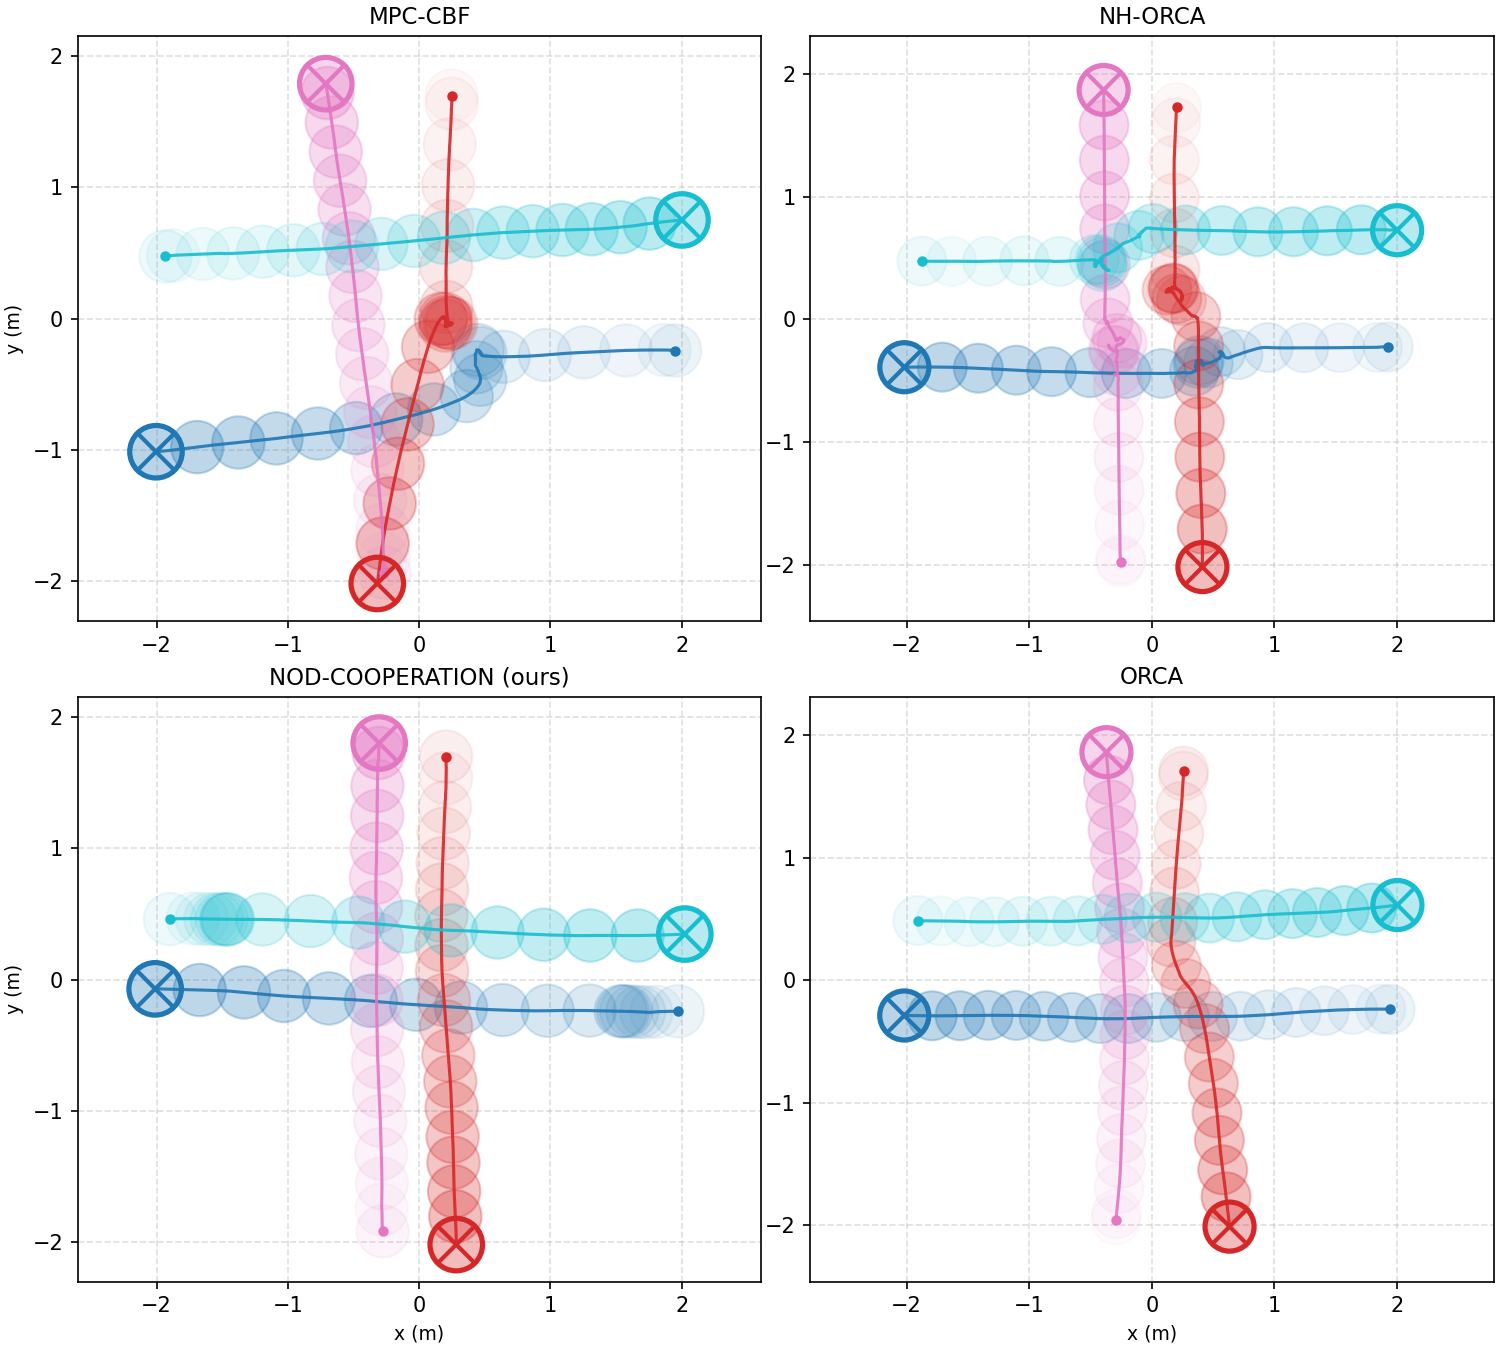
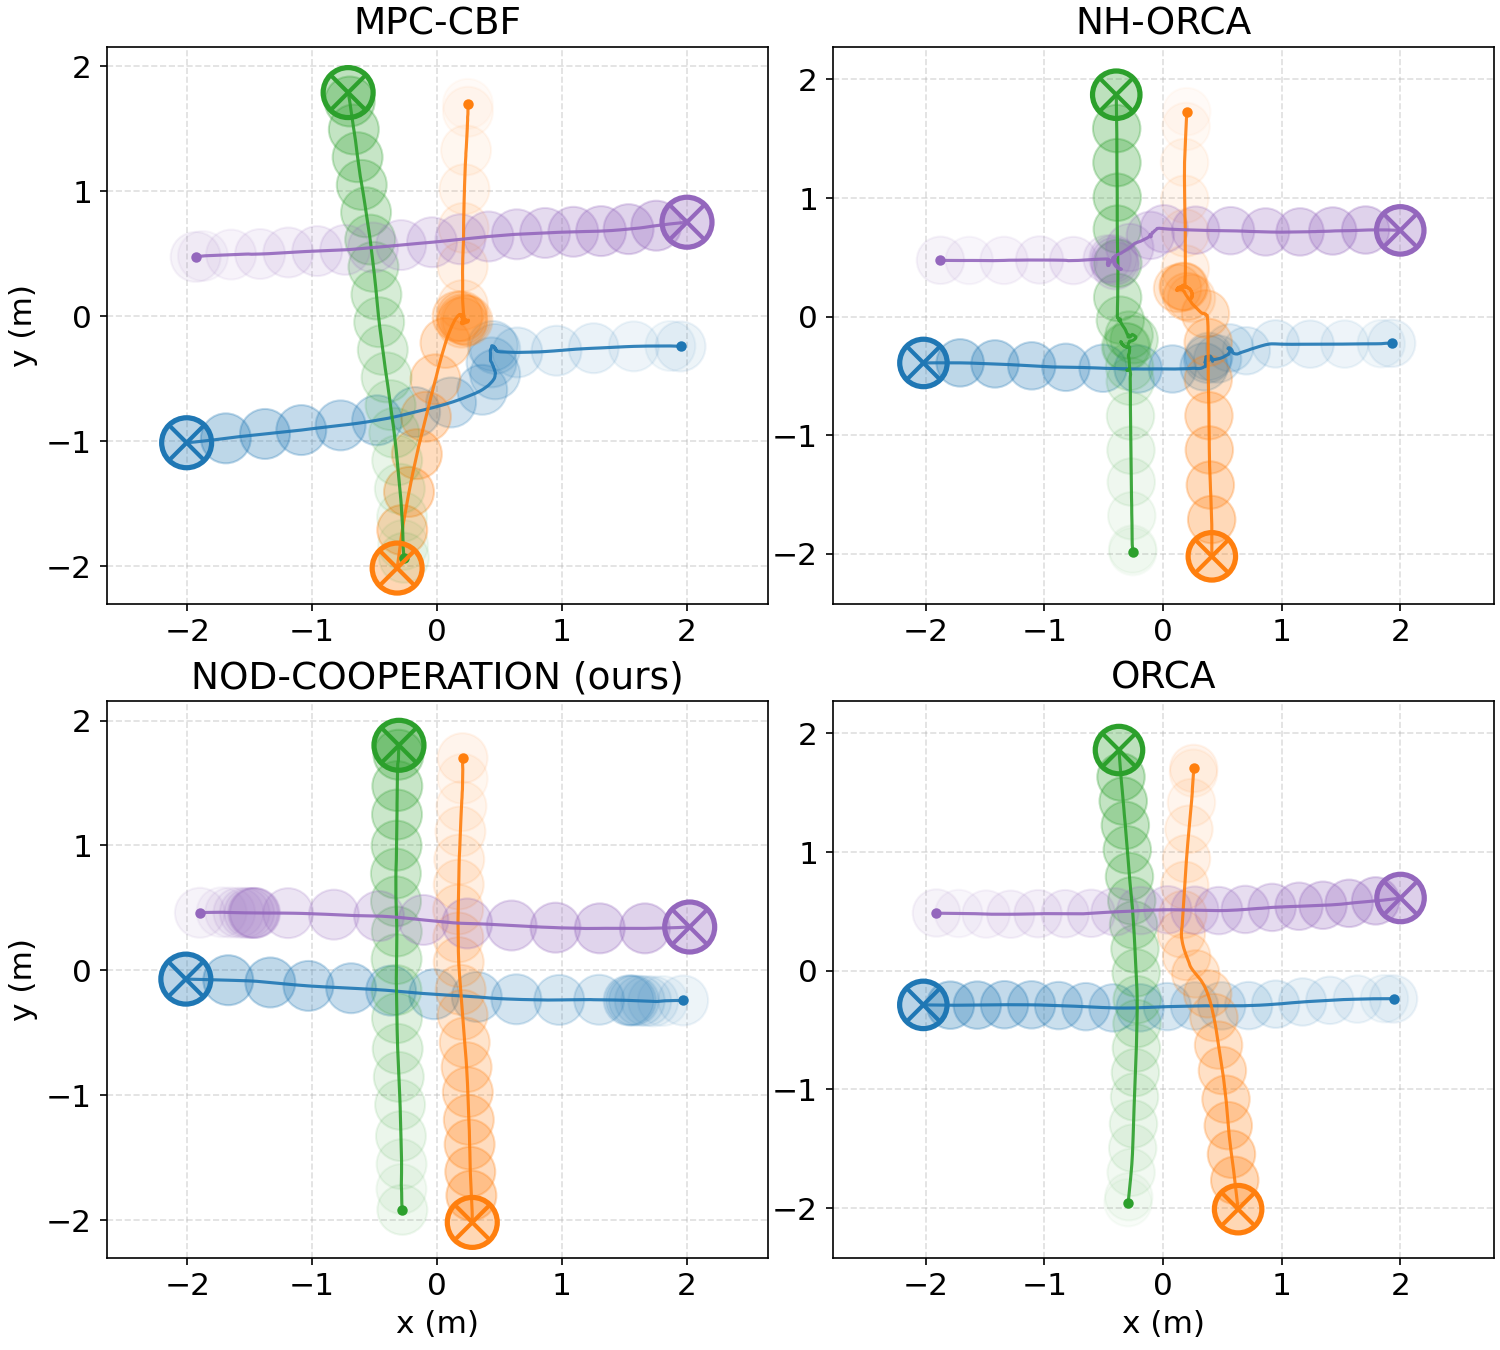
combined trajectories plot and generation

diff --git a/experiments/scripts/plot_combined_trajectories.py b/experiments/scripts/plot_combined_trajectories.py
@@ -47,7 +47,12 @@ def load_trial(trial_dir):
 
 
 def draw_trajectories(ax, robot_data, title):
-    colors = cm.tab10(np.linspace(0, 1, len(robot_data)))
+    colors = [
+        "#1f77b4",  # blue
+        "#ff7f0e",  # orange
+        "#2ca02c",  # green
+        "#9467bd",  # purple
+    ][:len(robot_data)]
 
     x_offset = np.mean([df["x"].values[0] for df in robot_data.values()])
     y_offset = np.mean([df["y"].values[0] for df in robot_data.values()])
@@ -87,7 +92,8 @@ def draw_trajectories(ax, robot_data, title):
                 color=color, linewidth=2, zorder=7)
 
     ax.set_aspect("equal", adjustable="datalim")
-    ax.set_title(title, fontsize=11, fontweight="normal", pad=6)
+    ax.set_title(title, fontsize=18, fontweight="normal", pad=6)
+    ax.tick_params(labelsize=15)
     ax.grid(True, linestyle="--", alpha=0.4)
     ax.autoscale()
     ax.legend().remove()
@@ -102,14 +108,14 @@ for (row, col), ax, trial_name in zip(np.ndindex(2, 2), axes.flat, trial_names):
     trial_dir  = os.path.join(SCENARIO_DIR, trial_name)
     robot_data = load_trial(trial_dir)
     if not robot_data:
-        ax.set_title(f"{TRIAL_LABELS[trial_name]}\n(no data)", fontsize=11, fontweight="normal")
+        ax.set_title(f"{TRIAL_LABELS[trial_name]}\n(no data)", fontsize=15, fontweight="normal")
         ax.axis("off")
         continue
     draw_trajectories(ax, robot_data, TRIAL_LABELS[trial_name])
     if col == 0:
-        ax.set_ylabel("y (m)", fontsize=9)
+        ax.set_ylabel("y (m)", fontsize=15)
     if row == 1:
-        ax.set_xlabel("x (m)", fontsize=9)
+        ax.set_xlabel("x (m)", fontsize=15)
 
 # Unify axis limits across all subplots and make them square so
 # equal-aspect ratio leaves no padding
